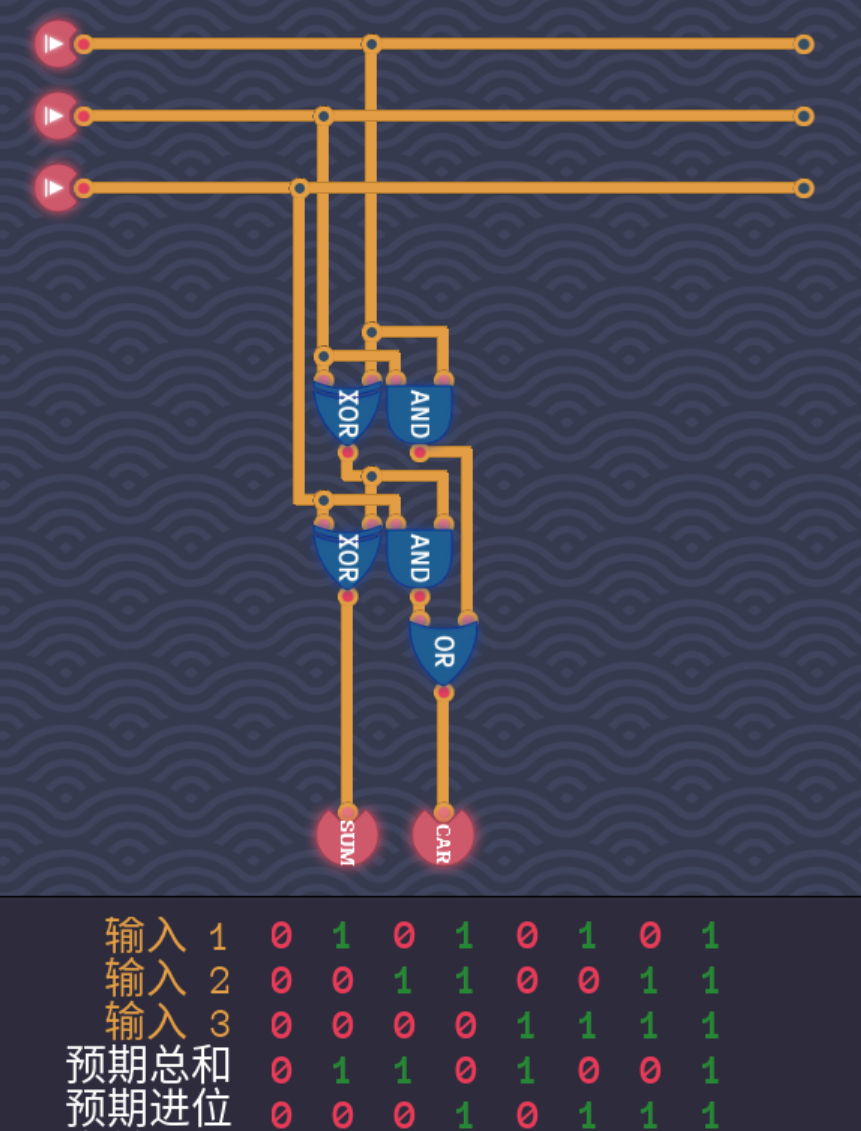
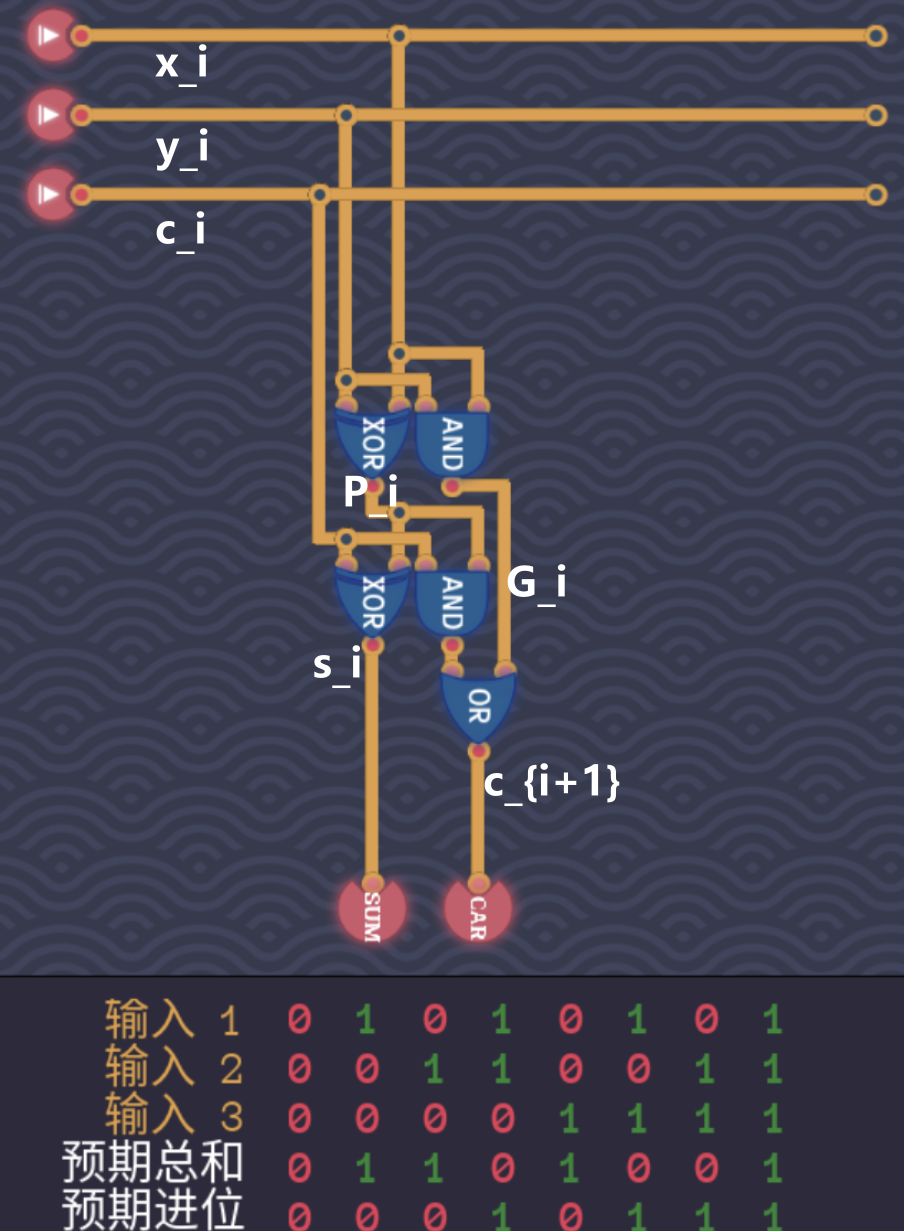
12.29 fix cla

diff --git a/_posts/2024-10-18-计算机中的整数及其四则运算.md b/_posts/2024-10-18-计算机中的整数及其四则运算.md
@@ -66,7 +66,7 @@ $$
 \end{aligned}
 $$
 
-- 观察使用补码进行`1+(-1)`的运算，结果为`[1 0000 0000]`，由于8bit表示会省去多出来的这个进位，所以这样实际得到的数是`[00000000]补`，这样的`0`就只有一种表示方法了，而多出来的`[1000 0000]`就可以多表示一个负数，对于8bit的数，原码表示的范围为$[-127, 127]$，而补码表示的范围就是$[-128, 127]$，所以`n`位补码表示整数的范围为$[-(2^{n-1}),2^{n-1}-1]$
+- 观察使用补码进行$1+(-1)$的运算，结果为`[1 0000 0000]补`，由于8bit表示会省去多出来的这个进位，所以这样实际得到的数是`[0000 0000]补`，这样的`0`就只有一种表示方法了，而多出来的`[1000 0000]补`就可以多表示一个负数，对于8bit的数，原码表示的范围为$[-127, 127]$，而补码表示的范围就是$[-128, 127]$，所以$n$位补码表示整数的范围为$[-(2^{n-1}),2^{n-1}-1]$
 
 ### 1.5 不同位间的转换
 
@@ -98,13 +98,13 @@ $$
 
 #### 2.1.2 减法
 - $(A-B)$等同于$(A+(-B))$，所以本质上还是做加法，问题就转换为如何将某个数的符号取反
-- 将一个数（补码）转化为符号相反的数的补码的方式即将这个数的补码再做一次补码操作（Negation Operation），即各位取反后加上$00..01$
+- 将一个补码数转化为与其符号相反的数的补码（Negation Operation），等同于将这个数的包括符号位的所有位全部取反后加上`00..01`
 
 ![补码的减法即转化为加法.png](/resources/组成原理/补码的减法即转化为加法.png)
 
 #### 2.1.3 溢出
 - 两个合法的相同符号的数相加，若结果符号与两加数不同，则产生了溢出（Overflow）
-- 符号相反的数相加，结果的绝对值只会比绝对值最大的数小，不可能溢出
+- 符号相反的数相加，结果的绝对值只会比两个加数中绝对值最大的数小，不可能溢出
 
 ### 2.2 全加器实现1-bit加法
 - 全加器（FA, Full Adder）用于进行数的单位（1-bit）相加，如下图，$x_i$与$y_i$是相加的两个数的同位，$c_i$是上一位的进位数，这三个数作为输入到全加器内进行逻辑判断得到两个输出，$s_i$为留在本位的数，$c_{i+1}$作为下一位相加的进位数输入
@@ -148,7 +148,7 @@ $$
 ![kn-bitAdder.png](/resources/组成原理/kn-bitAdder.png)
 
 ### 2.4 溢出的判断
-- 由前面的知识可知，判断两个相同符号的数相加是否溢出，只需看输出结果的符号位与原数的异同即可（因为符号相异的两个合法数相加必定不会溢出）
+- 由前面的知识可知，判断两个相同符号的数相加是否溢出只需看符号位$x_{n-1}$与$y_{n-1}$相同时（符号相异的两个合法数相加必定不会溢出）的输出结果符号位$s_{n-1}$与$x_{n-1}$的异同即可，相异则溢出
 - 判断逻辑及其真值表如下图所示，其中$\bar x$表示$\neg x$，加号表示$\vee$，相乘表示$\wedge$，注意到提供了两个判断逻辑，显然第二种仅需一个异或门是更优的
 
 ![n-bitAdderOverflowDetect.png](/resources/组成原理/n-bitAdderOverflowDetect.png)
@@ -172,27 +172,22 @@ $$
 
 ## 三、快速加法器
 
-### 3.1 半加器组合全加器
-- 半加器示意
+### 3.1 超前进位加法器
 
-![图灵完备半加器.png](/resources/组成原理/图灵完备半加器.png)
-
-- 用两个半加器以及一个或门可以组成如下图的全加器（这个就是超前进位加法器的B-Cell基本单元的实现，与行波进位加法器的全加器实现并不相同）
-
-![图灵完备全加器.png](/resources/组成原理/图灵完备全加器.png)
-
-### 3.2 超前进位加法器
-
-#### 3.2.1 逻辑原理
+#### 3.1.1 逻辑原理
 - 行波进位加法器需要从低到高等待每一个全加器依次完成运算，产生的需要等待的门延迟较长，如$Delay(s_{n-1})=(2n-1)T$，以及$Delay(c_n)=2nT$
 - 在$x_i$与$y_i$均为$1$的情况下，两个二进制数的同一位（$x_i$与$y_i$）的相加运算一定产生进位$c_{+1} = 1$，与前一位的进位即$c_i$的值无关，但若是$x_i$与$y_i$仅有一个为$1$，那么就需要等待前一位的$c_i$的值来进行$c_{i+1}$的判断
 - 超前进位加法器（CLA, Carry-Lookahead Addition）就是依据上述原理，将不依赖于$c_{i-1}$的那部分判断在所有位上先并行运算，然后再依据$c_{i-1}$的值进行最终的计算
 
 $$c_{i+1} = (x_i \wedge y_i)\vee(c_i \wedge (x_i \oplus y_i))$$
 
-#### 3.2.2 电路结构
+#### 3.1.2 电路结构
+
 >超前进位加法器通过更加复杂的硬件结构来换取时间的优化（以空间换时间）
-- 我们将上述式子$c_{i+1} = (x_i \wedge y_i)\vee(c_i \wedge (x_i \oplus y_i))$中提取两个信号$G$（Generate Function）和$P$（Propagate Function）如下，这两个信号可以在刚输入$x_i$与$y_i$的时候就进行（并行）运算，无需等待$c_i$
+
+- 从$c_{i+1} = (x_i \wedge y_i)\vee(c_i \wedge (x_i \oplus y_i))$中提取$G$（Generate Function）和$P$（Propagate Function）
+	- 其中信号$P_i = x_i \oplus y_i$换为$P_i = x_i \vee y_i$也没错，但是这样就需要多使用一个或门
+	- 这两个信号可以在刚输入$x_i$与$y_i$的时候就并行运算而无需等待$c_i$
 
 $$
 \begin{aligned}
@@ -201,13 +196,13 @@ $$
 \end{aligned}
 $$
 
-- 然后式子就可以简化为如下所示
+- 然后式子就可以简化成如下形式
 
 $$c_{i+1}=G_i \vee (P_i \wedge c_i)$$
 
-- 信号$P_i = x_i \oplus y_i$换为$P_i = x_i \vee y_i$也没错，但是这样就需要多使用一个或门
-- 超前进位加法器的基本结构B-Cell如下图所示，这个结构将得到$s_i = x_i \oplus y_i \oplus c_i$使用的异或门拆分为两个，使得$P_i = x_i \oplus y_i$的结果得以被记录
-- 用于计算$G_i$的与门可以与第一个或第二个异或门并行运算，以提升时间效率
+- 超前进位加法器的基本结构B-Cell如下图所示
+	- 该结构把计算$s_i = x_i \oplus y_i \oplus c_i$使用的异或门拆分为两个，使得$P_i = x_i \oplus y_i$的结果能被记录
+	- 用于计算$G_i$的与门可以与第一个或第二个异或门并行运算，以提升时间效率
 
 ![B-Cell示意.png](/resources/组成原理/B-Cell示意.png)
 
@@ -215,27 +210,31 @@ $$c_{i+1}=G_i \vee (P_i \wedge c_i)$$
 
 ![超前加法器全貌.png](/resources/组成原理/超前加法器全貌.png)
 
-- 在游戏《图灵完备》中实现的B-Cell如下，其实就是两个半加器外加一个与门实现的全加器
+- 在游戏《图灵完备》中实现的的半加器如下
 
-![图灵完备B-Cell.png](/resources/组成原理/图灵完备B-Cell.png)
+![图灵完备半加器.png](/resources/组成原理/图灵完备半加器.png)
 
-#### 3.2.3 传播延迟
+- 用两个半加器以及一个或门可以组成如下图的全加器即B-Cell如下，由两个半加器外加与门实现
+
+![图灵完备全加器.png](/resources/组成原理/图灵完备全加器.png)
+
+#### 3.1.3 传播延迟
 - 对于单个CLA，从$x_i$、$y_i$和$c_i$被输入后，到得到输出结果$c_{i+1}$，耗费的传播延迟是固定的$3T$，可以从电路图的各门的关系结构上看出来
 - 但是如果是从输入$c_i$开始到得到得到输出结果$s_{i+1}$的话，那所耗费的传播延迟就是$3T+T=4T$，其中$3T$是从$c_i$到$c_{i+1}$的延迟，$T$是从$c_{i+1}$到$s_{i+1}$的延迟
 
-### 3.3 扇入与扇出
+### 3.2 扇入与扇出
 - 扇入（Fan-In）指的是一个逻辑门接收的输入的个数
 - 扇出（Fan-Out）指的是一个逻辑门产生的输出的个数
 - 电路中不允许有过大的扇入或者扇出，这样会影响运算效率
 
-### 3.4 组合CLA
+### 3.3 组合CLA
 
-#### 3.4.1 四位组合CLA
+#### 3.3.1 四位组合CLA
 - 四个CLA并联在一起，可以实现并行计算，如下图所示，从$c_0$得到$c_4$的总延迟是$3T$
 
 ![4-bitCLA示意..png](/resources/组成原理/4-bitCLA示意.png)
 
-#### 3.4.2 八位组合CLA
+#### 3.3.2 八位组合CLA
 - 在游戏《图灵完备》中实现的8-bit超前进位加法器如下，可以看到此加法器内部有8个全加器，左上角的输入端有三个信号，即两个8bit的二进制数以及一个进位信号（紫色的线传输的是进位信号），最终输出一个8bit二进制数以及一个进位信号到右下角
 
 ![图灵完备8bit超前进位加法器.png](/resources/组成原理/图灵完备8bit超前进位加法器.png)
@@ -244,7 +243,7 @@ $$c_{i+1}=G_i \vee (P_i \wedge c_i)$$
 
 ![八位超前进位加法器电路图.png](/resources/组成原理/八位超前进位加法器电路图.png)
 
-#### 3.4.3 n位组合CLA
+#### 3.3.3 n位组合CLA
 - 过长的CLA组合在一起的话，会导致电路结构非常复杂，所以我们一般采取串联多个组合的CLA组成一个较大的加法器，比如8个4-bit的CLA组成一个32-bit的
 - 代价就是从输入到输出的门延迟是无法被完全并行优化掉，因为是串联所以后面的4-bitCLA需要等到$c_{4n}$的输入，但是信号$P$和$G$却无需等待，所以这部分延迟是可以被并行掉的，故而被累加到总的传播延迟的延迟只有$3T-T=2T$之多
 
